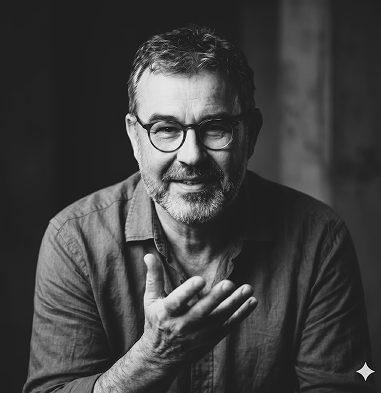
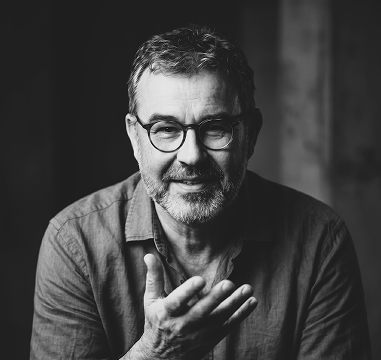
fix(layout+ui): root layout html/body tags, remove Gemini watermark from speaker photos, update founder images

diff --git a/src/app/[locale]/layout.tsx b/src/app/[locale]/layout.tsx
@@ -1,26 +1,10 @@
 import type { Metadata, Viewport } from "next";
-import { Inter, Montserrat } from "next/font/google";
 import { notFound } from "next/navigation";
 import { NextIntlClientProvider } from "next-intl";
 import { getMessages, setRequestLocale } from "next-intl/server";
 import type { ReactNode } from "react";
 import { routing } from "@/i18n/routing";
 import { CookieConsentBanner } from "@/components/CookieConsentBanner";
-import "../globals.css";
-
-const montserrat = Montserrat({
-  subsets: ["latin", "latin-ext"],
-  variable: "--font-montserrat",
-  display: "swap",
-  adjustFontFallback: true,
-});
-
-const inter = Inter({
-  subsets: ["latin", "latin-ext"],
-  variable: "--font-inter",
-  display: "swap",
-  adjustFontFallback: true,
-});
 
 type Props = {
   children: ReactNode;
@@ -93,13 +77,9 @@ export default async function LocaleLayout({ children, params }: Props) {
   const messages = await getMessages();
 
   return (
-    <html className={`${montserrat.variable} ${inter.variable}`} lang={locale} suppressHydrationWarning>
-      <body className="min-h-screen antialiased pb-[env(safe-area-inset-bottom)]">
-        <NextIntlClientProvider messages={messages}>
-          {children}
-          <CookieConsentBanner />
-        </NextIntlClientProvider>
-      </body>
-    </html>
+    <NextIntlClientProvider messages={messages}>
+      {children}
+      <CookieConsentBanner />
+    </NextIntlClientProvider>
   );
 }

diff --git a/src/app/layout.tsx b/src/app/layout.tsx
@@ -1,5 +1,27 @@
 import type { ReactNode } from "react";
+import { Inter, Montserrat } from "next/font/google";
+import "./globals.css";
+
+const montserrat = Montserrat({
+  subsets: ["latin", "latin-ext"],
+  variable: "--font-montserrat",
+  display: "swap",
+  adjustFontFallback: true,
+});
+
+const inter = Inter({
+  subsets: ["latin", "latin-ext"],
+  variable: "--font-inter",
+  display: "swap",
+  adjustFontFallback: true,
+});
 
 export default function RootLayout({ children }: { children: ReactNode }) {
-  return children;
+  return (
+    <html className={`${montserrat.variable} ${inter.variable}`} suppressHydrationWarning>
+      <body className="min-h-screen antialiased pb-[env(safe-area-inset-bottom)]">
+        {children}
+      </body>
+    </html>
+  );
 }

diff --git a/src/components/sections/programa/ProgramaFormadoresSection.tsx b/src/components/sections/programa/ProgramaFormadoresSection.tsx
@@ -116,7 +116,7 @@ export const ProgramaFormadoresSection = async ({
                 <Image
                   alt=""
                   aria-hidden
-                  className="object-cover"
+                  className="object-cover object-top"
                   fill
                   sizes="(max-width: 768px) 64px, 72px"
                   src={avatar}